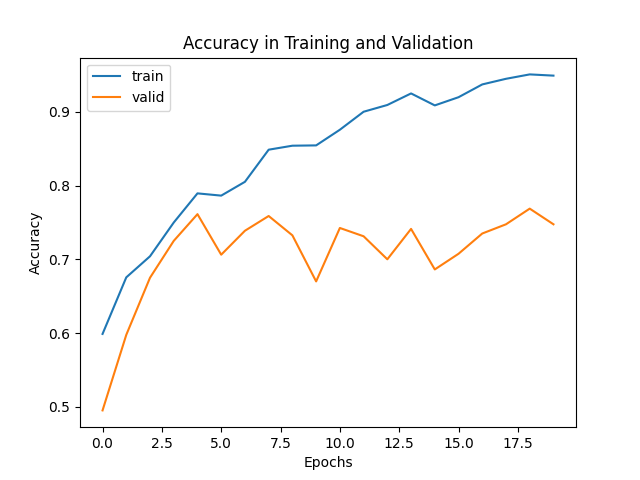
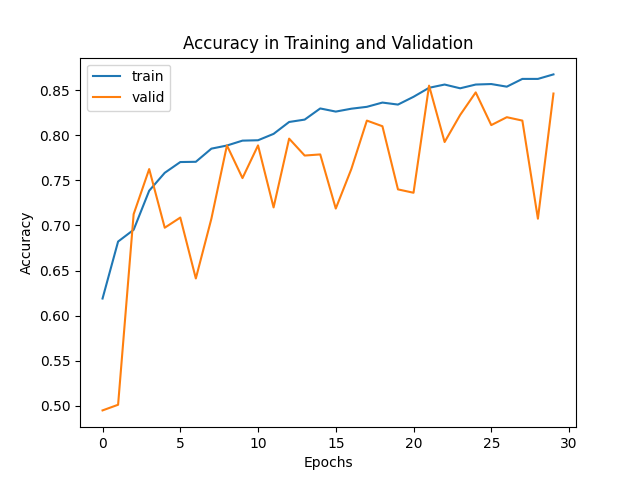
preprocessing the images

diff --git a/test.py b/test.py
@@ -7,9 +7,17 @@ from tensorflow.keras.layers import Conv2D, MaxPooling2D, Dense, Flatten, Dropou
 from tensorflow.keras.callbacks import EarlyStopping
 
 def normalizer(image, label):
+    image = augmentation(image) 
     aux = tf.cast(image, dtype=tf.float32)
     image_norm = aux/255.0
     return image_norm, label
+
+augmentation = tf.keras.Sequential([
+    tf.keras.layers.RandomFlip("horizontal"),
+    tf.keras.layers.RandomRotation(0.1),
+    tf.keras.layers.RandomZoom(0.1),
+    tf.keras.layers.RandomBrightness(0.1)
+])
 
 train_data = tf.keras.utils.image_dataset_from_directory(
     'dataset/training',
@@ -68,7 +76,7 @@ print(model.summary())
 hist = model.fit(
     train,
     batch_size=32, 
-    epochs=20, 
+    epochs=30, 
     validation_data=valid
     #callbacks=[early_stopping], 
     #verbose=1
